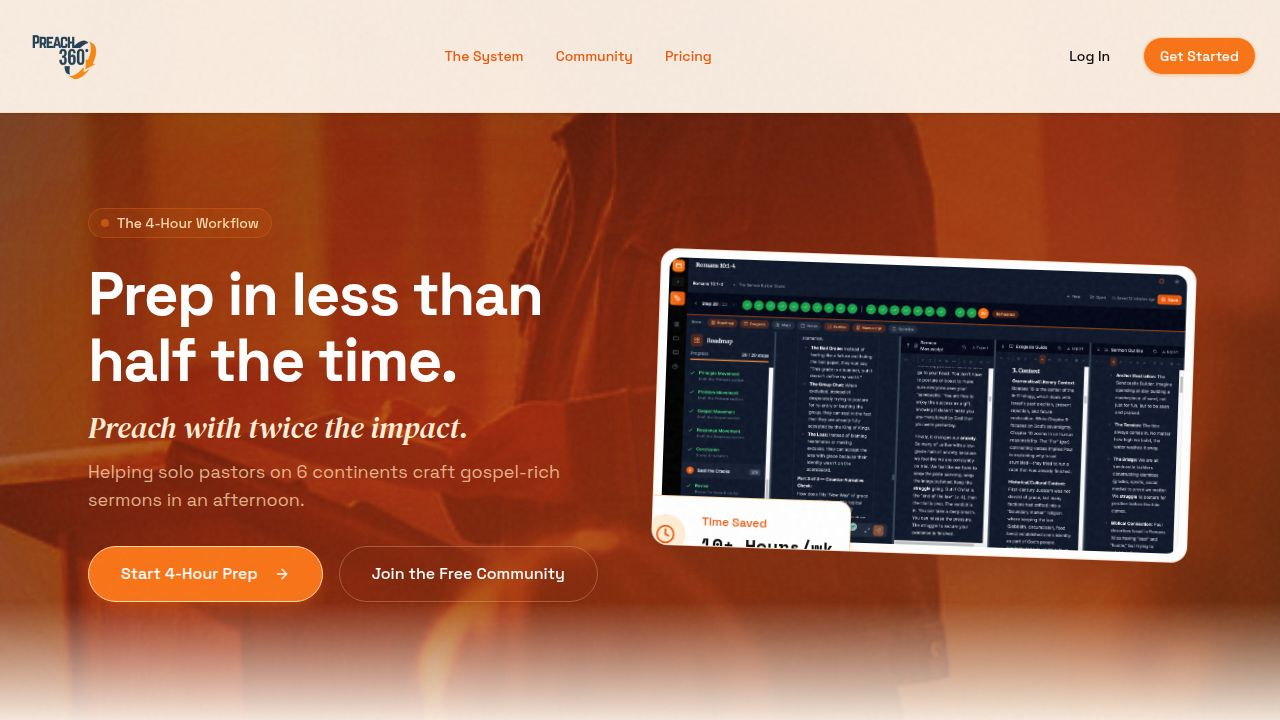
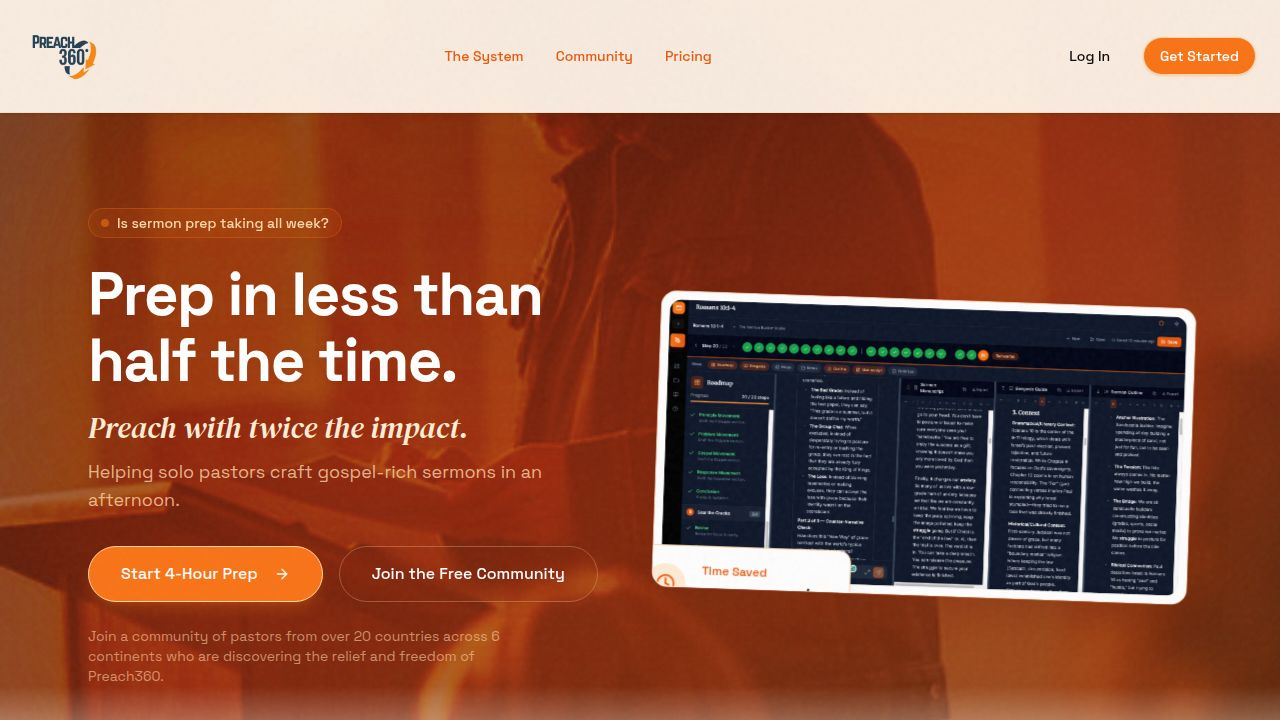
Add new taglines and hooks to the website
Update the hero section with a new hook, modify the "Why Preach360?" section with a new one-liner, and add a tagline to the "The Preach360 Roadmap" section.

Replit-Commit-Author: Agent
Replit-Commit-Session-Id: b40ebc65-716c-42ff-8a29-f355e8ec55d6
Replit-Commit-Checkpoint-Type: full_checkpoint
Replit-Commit-Event-Id: 8f0fc672-26fe-491b-a26b-d4e20918aa4b
Replit-Commit-Screenshot-Url: https://storage.googleapis.com/screenshot-production-us-central1/52b2e9a9-1aca-4f31-b761-2a0e85fbc987/b40ebc65-716c-42ff-8a29-f355e8ec55d6/UCy4gA7
Replit-Helium-Checkpoint-Created: true

diff --git a/client/src/pages/home.tsx b/client/src/pages/home.tsx
@@ -33,7 +33,7 @@ export default function Home() {
             >
               <div className="inline-flex items-center rounded-full border border-brand-500/30 bg-brand-500/10 px-3 py-1 text-sm text-brand-200 mb-6 font-medium backdrop-blur-sm">
                 <span className="flex h-2 w-2 rounded-full bg-brand-500 mr-2 animate-pulse"></span>
-                The 4-Hour Workflow
+                Is sermon prep taking all week?
               </div>
               <h1 className="text-4xl md:text-5xl lg:text-6xl font-bold tracking-tight text-white mb-4 leading-[1.1]">
                 Prep in less than half the time.
@@ -172,6 +172,9 @@ export default function Home() {
         <div className="container mx-auto px-4 max-w-6xl">
           <div className="mb-16 text-center">
             <h2 className="text-3xl md:text-5xl font-bold mb-6 font-drama text-brand-950">The Preach360 Roadmap</h2>
+            <p className="text-xl text-brand-600 font-medium mb-4">
+              Preach360 provides the path. You trust the process.
+            </p>
             <p className="text-lg text-muted-foreground max-w-2xl mx-auto">
               A clear, step-by-step visual indicator that keeps your sermon prep moving forward, eliminating guesswork.
             </p>
@@ -223,8 +226,8 @@ export default function Home() {
         <div className="container mx-auto px-4 max-w-5xl">
           <div className="text-center mb-16">
              <h2 className="text-3xl md:text-5xl font-bold mb-6 font-drama text-foreground">Why Preach360?</h2>
-             <p className="text-lg text-muted-foreground max-w-2xl mx-auto">
-               Built specifically for the needs of solo pastors. We stripped away the bloat and focused on what actually helps you preach the Gospel.
+             <p className="text-lg text-muted-foreground max-w-3xl mx-auto">
+               Preach360 guides you down a redemptive path from exegesis to a complete draft in 4 hours or less without using complicated Bible software or generic AI.
              </p>
           </div>
           
